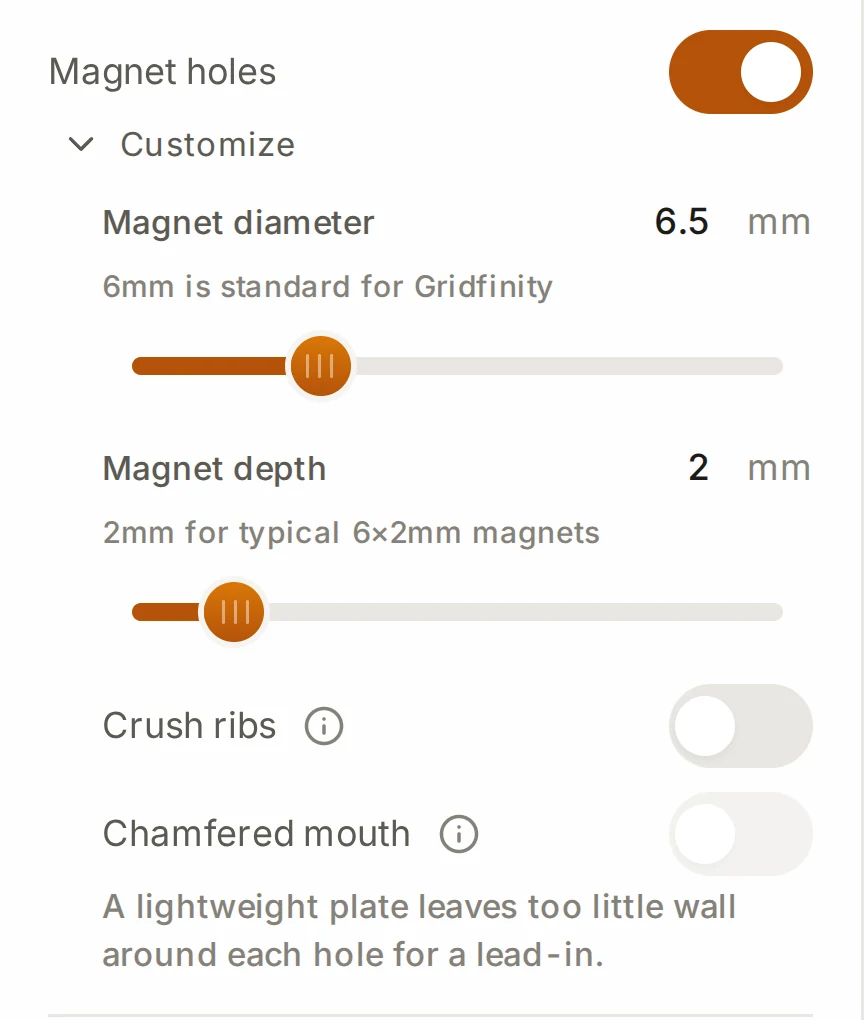
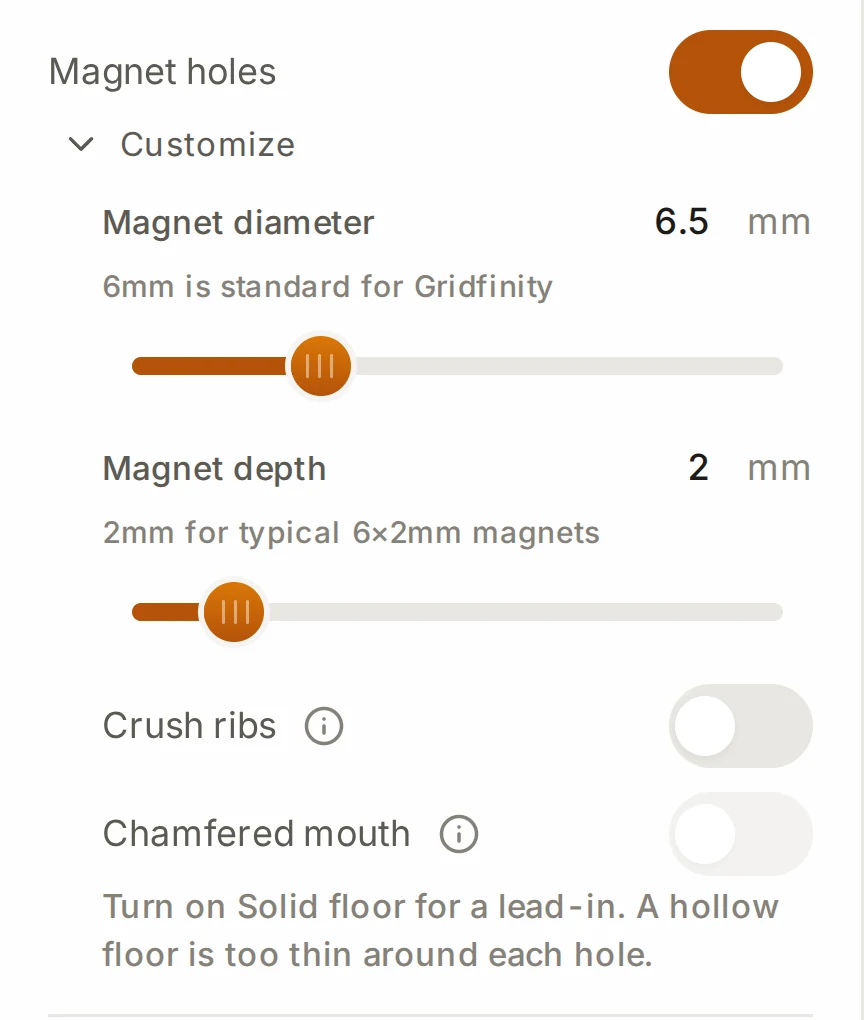
fix(baseplate): let a solid-floor plate take the magnet-hole chamfer (#5111)
* fix(baseplate): let a solid-floor plate take the magnet-hole chamfer

* docs(user-docs): say that Chamfered mouth needs Solid floor, and recapture its panel

* chore: build a preview of the docs page [preview]

* fix(baseplate): keep the chamfer note under the 90-character panel limit

* chore: build a preview of the docs page [preview]

* fix(baseplate): keep the magnet chamfer off a hollow floor with no lightweight field and off shallow holes

* chore: build a preview of the docs page [preview]

* fix(baseplate): say why a shallow magnet hole gets no chamfer

* chore: build a preview of the docs page [preview]

* fix(baseplate): pick the chamfer reason with a plain conditional, so it type-checks

* chore: build a preview of the docs page [preview]

Changed region(s): [[0.125, 0.8814, 0.9062, 0.9725]]

diff --git a/src/shared/generation/magnetHoleStyle.test.ts b/src/shared/generation/magnetHoleStyle.test.ts
@@ -6,6 +6,8 @@ import {
   MAGNET_CRUSH_RIB_DEPTH_MM,
   PLAIN_MAGNET_HOLE,
   attachmentHoleStyle,
+  baseplateTakesMagnetChamfer,
+  magnetChamferBlocker,
   isPlainMagnetHole,
   magnetBoreProfile,
   magnetBoreRadiusAt,
@@ -91,5 +93,40 @@ describe('chamfer', () => {
     // lid retention bosses (1.0) and detachable feet (1.2) all keep the plain mouth.
     expect(magnetChamferFits(1.2)).toBe(false);
     expect(magnetChamferFits(1.0)).toBe(false);
+  });
+});
+
+describe('magnetChamferBlocker', () => {
+  it('names the hollow floor first, then a shallow hole', () => {
+    expect(magnetChamferBlocker({ lightweight: true, magnetDepth: 0.5 })).toBe('hollowFloor');
+    expect(magnetChamferBlocker({ solidFloor: true, magnetDepth: 0.5 })).toBe('shallowHole');
+    expect(magnetChamferBlocker({ solidFloor: true, magnetDepth: 2 })).toBeNull();
+  });
+});
+
+describe('baseplateTakesMagnetChamfer', () => {
+  it('skips the chamfer on the thin pads of a hollowed floor', () => {
+    expect(baseplateTakesMagnetChamfer({ magnetChamfer: true, lightweight: true })).toBe(false);
+  });
+
+  it('keeps the chamfer when a solid floor replaces the hollowing', () => {
+    expect(
+      baseplateTakesMagnetChamfer({ magnetChamfer: true, lightweight: true, solidFloor: true })
+    ).toBe(true);
+    expect(baseplateTakesMagnetChamfer({ magnetChamfer: true, lightweight: false })).toBe(true);
+  });
+
+  it('treats a plate with no lightweight field as hollow, as the floor cutters do', () => {
+    expect(baseplateTakesMagnetChamfer({ magnetChamfer: true })).toBe(false);
+  });
+
+  it('skips the chamfer on a hole no deeper than the lead-in', () => {
+    const solid = { magnetChamfer: true, solidFloor: true };
+    expect(baseplateTakesMagnetChamfer({ ...solid, magnetDepth: MAGNET_CHAMFER_MM })).toBe(false);
+    expect(baseplateTakesMagnetChamfer({ ...solid, magnetDepth: 2 })).toBe(true);
+  });
+
+  it('is off unless asked for', () => {
+    expect(baseplateTakesMagnetChamfer({ lightweight: false, solidFloor: true })).toBe(false);
   });
 });

diff --git a/src/features/baseplate/components/BaseplatePanel/BaseSection.tsx b/src/features/baseplate/components/BaseplatePanel/BaseSection.tsx
@@ -72,6 +72,7 @@ import {
   CONNECTOR_FIT_OFFSET_STEP,
 } from '@/shared/constants/connectors';
 import { mm } from '@/core/types';
+import { magnetChamferBlocker } from '@/shared/generation/magnetHoleStyle';
 import {
   updateBaseplateParam as updateParam,
   updateBaseplateParams as updateParams,
@@ -117,6 +118,17 @@ export function BaseSection() {
     diameter: screwDiameter,
     count: screwsPerPiece,
   });
+  const chamferBlocker = magnetChamferBlocker({
+    lightweight: baseplateParams.lightweight !== false,
+    solidFloor: baseplateParams.solidFloor,
+    magnetDepth: baseplateParams.magnetDepth,
+  });
+  const chamferReason =
+    chamferBlocker === 'hollowFloor'
+      ? t('baseplate.magnetChamferLightweight')
+      : chamferBlocker === 'shallowHole'
+        ? t('baseplate.magnetChamferShallow')
+        : undefined;
 
   // Only a config created here is given a head width. A saved one without it
   // resolves to ø8, the width it was built with, and must keep resolving there.
@@ -352,11 +364,7 @@ export function BaseSection() {
                   label={t('baseplate.magnetChamfer')}
                   info={t('baseplate.magnetChamferDetail')}
                   checked={baseplateParams.magnetChamfer === true}
-                  disabledReason={
-                    baseplateParams.lightweight === true
-                      ? t('baseplate.magnetChamferLightweight')
-                      : undefined
-                  }
+                  disabledReason={chamferReason}
                   onChange={() =>
                     updateParam(
                       'magnetChamfer',

diff --git a/src/features/generation/worker/generators/magnetHoleStyle.kernel.test.ts b/src/features/generation/worker/generators/magnetHoleStyle.kernel.test.ts
@@ -214,7 +214,7 @@ describe('magnet hole press-fit options', () => {
   });
 
   it('baseplate: ribs and chamfer in the exact plate and its direct-mesh draft alike', () => {
-    const params = plate({ magnetCrushRibs: true, magnetChamfer: true });
+    const params = plate({ magnetCrushRibs: true, magnetChamfer: true, lightweight: false });
     const brep = holeProfile(
       generateBrepPlate(params, () => {}, true),
       MAGNET,
@@ -248,6 +248,32 @@ describe('magnet hole press-fit options', () => {
     );
     expectRibbed(p, 'lightweight plate ribs');
     expect(p.mouthAbove, 'lightweight pad keeps its plain mouth').toBeLessThan(R + 0.1);
+  }, 120_000);
+
+  it('baseplate: a solid floor keeps the chamfer on a lightweight plate', () => {
+    const p = holeProfile(
+      generateBrepPlate(
+        plate({ magnetChamfer: true, lightweight: true, solidFloor: true }),
+        () => {},
+        true
+      ),
+      MAGNET,
+      MAGNET
+    );
+    expectChamferAt(p.mouthAbove, 'solid floor chamfer mouth');
+  }, 120_000);
+
+  it('baseplate: a hole shallower than the lead-in keeps its plain mouth', () => {
+    const p = holeProfile(
+      generateBrepPlate(
+        plate({ magnetChamfer: true, solidFloor: true, magnetDepth: 0.5 }),
+        () => {},
+        true
+      ),
+      MAGNET,
+      MAGNET
+    );
+    expect(p.mouthAbove, 'shallow hole mouth').toBeLessThan(R + 0.1);
   }, 120_000);
 
   it('baseplate: a piece of a plate split for the bed keeps the ribs a 1x1 plate has', () => {

diff --git a/src/shared/generation/magnetHoleStyle.ts b/src/shared/generation/magnetHoleStyle.ts
@@ -37,6 +37,34 @@ export function magnetHoleStyleFrom(source: {
   return { crushRibs: source.magnetCrushRibs === true, chamfer: source.magnetChamfer === true };
 }
 
+interface BaseplateChamferParams {
+  readonly magnetChamfer?: boolean;
+  readonly lightweight?: boolean;
+  readonly solidFloor?: boolean;
+  readonly magnetDepth?: number;
+}
+
+/**
+ * What keeps a baseplate's magnet holes from taking the chamfer, or null. The
+ * cross cutters of a hollow floor (on unless `lightweight` is false) leave a
+ * thin pad around each bore, which the widened mouth would breach; a solid
+ * floor skips those cutters. The fixed-depth lead-in also needs a hole deeper
+ * than itself, or the magnet would sit below its seat.
+ */
+export function magnetChamferBlocker(
+  params: BaseplateChamferParams
+): 'hollowFloor' | 'shallowHole' | null {
+  if (params.lightweight !== false && params.solidFloor !== true) return 'hollowFloor';
+  if (params.magnetDepth !== undefined && params.magnetDepth <= MAGNET_CHAMFER_MM) {
+    return 'shallowHole';
+  }
+  return null;
+}
+
+export function baseplateTakesMagnetChamfer(params: BaseplateChamferParams): boolean {
+  return params.magnetChamfer === true && magnetChamferBlocker(params) === null;
+}
+
 /** The style an item envelope's attachment summary carries. */
 export function attachmentHoleStyle(attachment: {
   readonly magnetCrushRibs?: boolean;

diff --git a/src/features/generation/worker/generators/baseplateDirectMesh.ts b/src/features/generation/worker/generators/baseplateDirectMesh.ts
@@ -63,6 +63,7 @@ import {
   floorReliefReachesCorners,
   magnetPositionsForCell,
 } from '@/shared/generation/magnetPositions';
+import { baseplateTakesMagnetChamfer } from '@/shared/generation/magnetHoleStyle';
 import type { MagnetHoleStyle } from '@/shared/generation/magnetHoleStyle';
 import {
   cellHoldsFloorScrew,
@@ -110,7 +111,6 @@ export function generateBaseplateDirect(
     magnetDepth,
     magnetAnchor,
     magnetCrushRibs,
-    magnetChamfer,
     paddingLeft,
     paddingRight,
     paddingFront,
@@ -295,11 +295,11 @@ export function generateBaseplateDirect(
 
   if (magnetHoles) {
     const magnetRadius = magnetDiameter / 2;
-    // Same fit rule as the BREP plate: no chamfer on a lightweight pad, and none
-    // in a cell whose edge the widened mouth would breach.
+    // Same fit rule as the BREP plate, and no chamfer in a cell whose edge the
+    // widened mouth would breach.
     const magnetStyle: MagnetHoleStyle = {
       crushRibs: magnetCrushRibs === true,
-      chamfer: magnetChamfer === true && !params.lightweight,
+      chamfer: baseplateTakesMagnetChamfer(params),
     };
     const addCellHoles = (cell: CellInfo): void => {
       const positions = magnetPositionsForCell(

diff --git a/src/features/generation/worker/generators/baseplateGenerator.ts b/src/features/generation/worker/generators/baseplateGenerator.ts
@@ -74,6 +74,7 @@ import {
   planPartialCellMagnetPockets,
   type MagnetPocketPlan,
 } from './baseplateMagnets';
+import { baseplateTakesMagnetChamfer } from '@/shared/generation/magnetHoleStyle';
 import type { MagnetHoleStyle } from '@/shared/generation/magnetHoleStyle';
 import { buildScrewCutters } from './baseplateScrews';
 import {
@@ -284,7 +285,6 @@ export function buildBaseplateSolid(
     magnetDepth,
     magnetAnchor,
     magnetCrushRibs,
-    magnetChamfer,
     paddingLeft,
     paddingRight,
     paddingFront,
@@ -564,11 +564,9 @@ export function buildBaseplateSolid(
     outline !== undefined
       ? (cell: CellInfo): boolean => classifyCell(cell) === 'inside'
       : undefined;
-  // A lightweight plate keeps only a thin pad around each bore, too thin for
-  // the chamfer to open into; the ribs still apply there.
   const magnetStyle: MagnetHoleStyle = {
     crushRibs: magnetCrushRibs === true,
-    chamfer: magnetChamfer === true && !params.lightweight,
+    chamfer: baseplateTakesMagnetChamfer(params),
   };
   // Over-tile margin tiles get magnets too — the corner magnets that fit, or a
   // spread/centered magnet for tiles too small for any corner — so the clipped

diff --git a/src/shared/generation/meshPersistence.ts b/src/shared/generation/meshPersistence.ts
@@ -43,6 +43,8 @@ const META_STORE = 'binMeshMeta';
  * instead, so the other kernel's users keep their warm cache; for one that
  * only moves bins, bump {@link BIN_MESH_REVISION}.
  *
+ * `v30`: a baseplate with a solid floor gets the magnet-hole chamfer that it
+ * asks for, where the hollow-floor rule dropped it.
  * `v29`: a hinged lid that exports on its top face points its pin bores'
  * teardrop peak down, so the peak is the top of the hole on the print bed.
  * `v28`: a hinged lid with extra height keeps its side walls whole past the
@@ -84,7 +86,7 @@ const META_STORE = 'binMeshMeta';
  * without regenerating, so without this bump a linked design in the layout
  * planner would render its pre-fix bin until the entry was evicted.
  */
-const MESH_CACHE_VERSION = 'v29';
+const MESH_CACHE_VERSION = 'v30';
 
 /**
  * Bumped when only BIN output moves for unchanged params, so the persisted

diff --git a/src/features/baseplate/components/BaseplatePanel/BaseSection.test.tsx b/src/features/baseplate/components/BaseplatePanel/BaseSection.test.tsx
@@ -376,4 +376,17 @@ describe('BaseSection magnet press-fit options', () => {
     expect(screen.getByRole('switch', { name: 'baseplate.magnetChamfer' })).toBeDisabled();
     expect(screen.getByText('baseplate.magnetChamferLightweight')).toBeInTheDocument();
   });
+
+  it('disables the chamfer on a hole no deeper than the lead-in and says why', () => {
+    useLayoutStore.getState().setBaseplateParams({
+      ...DEFAULT_BASEPLATE_PARAMS,
+      magnetHoles: true,
+      solidFloor: true,
+      magnetDepth: mm(0.5),
+    });
+    render(<BaseSection />);
+    fireEvent.click(screen.getByRole('button', { name: 'common.customize' }));
+    expect(screen.getByRole('switch', { name: 'baseplate.magnetChamfer' })).toBeDisabled();
+    expect(screen.getByText('baseplate.magnetChamferShallow')).toBeInTheDocument();
+  });
 });

diff --git a/src/i18n/locales/en.ts b/src/i18n/locales/en.ts
@@ -4896,7 +4896,8 @@ const en: Record<string, string> = {
   'baseplate.magnetChamferDetail':
     'A 45\u00b0 lead-in at the opening of each hole guides the magnet in straight.',
   'baseplate.magnetChamferLightweight':
-    'A lightweight plate leaves too little wall around each hole for a lead-in.',
+    'Turn on Solid floor for a lead-in. A hollow floor is too thin around each hole.',
+  'baseplate.magnetChamferShallow': 'Make the hole deeper than 0.8 mm for a lead-in.',
   'baseplate.solidFloor': 'Solid floor',
   'baseplate.ecoPlate': 'Eco plate',
   'baseplate.ecoPlateDetail':

diff --git a/src/features/generation/worker/generators/magnetHoleCutter.manifold-kernel.test.ts b/src/features/generation/worker/generators/magnetHoleCutter.manifold-kernel.test.ts
@@ -191,7 +191,7 @@ describe('Manifold draft: crush ribs on every part family', () => {
     'baseplate: ribbed bore, chamfered mouth at the pocket floor',
     () => {
       const part = generateBaseplate(
-        plate({ magnetCrushRibs: true, magnetChamfer: true }),
+        plate({ magnetCrushRibs: true, magnetChamfer: true, lightweight: false }),
         () => {},
         false
       );

diff --git a/apps/docs/baseplates/magnets-and-screws.md b/apps/docs/baseplates/magnets-and-screws.md
@@ -39,7 +39,7 @@ All three are off by default. <Ui k="baseplate.stackPrint.enable" /> removes all
 
 Not sure? Keep the defaults. Gridfinity magnets are 6 by 2 mm discs.
 
-<Screenshot id="baseplates-magnets-magnet-settings" alt="Magnet holes is on and Customize is open. It shows Magnet diameter at 6.5 mm, Magnet depth at 2 mm, Crush ribs, and Chamfered mouth. Chamfered mouth is off, with a note that a lightweight plate leaves too little wall around each hole." spec="Baseplate generator, 4 by 3 plate with the default lightweight floor, Magnet holes on. Click Customize under Magnet holes. Crop to the panel from Magnet holes down to the note under Chamfered mouth." />
+<Screenshot id="baseplates-magnets-magnet-settings" alt="Magnet holes is on and Customize is open. It shows Magnet diameter at 6.5 mm, Magnet depth at 2 mm, Crush ribs, and Chamfered mouth. Chamfered mouth is off, with a note to turn on Solid floor for a lead-in." spec="Baseplate generator, 4 by 3 plate with the default lightweight floor, Magnet holes on. Click Customize under Magnet holes. Crop to the panel from Magnet holes down to the note under Chamfered mouth." />
 
 Your bins need magnets in the same places. In the bin designer, open <Ui k="binDesigner.group.base" /> and turn on magnet holes. See [The base](../designer/base#add-magnet-holes). For a big bin, turn on <Ui k="binDesigner.base.cornerHolesOnly" /> under <Ui k="binDesigner.base.section.mounting" />. The bin then gets holes only at its outer corners, so it needs fewer magnets and lifts off the plate more easily.
 
@@ -54,7 +54,7 @@ Want the magnets to stay in without glue? Two options under <Ui k="common.custom
 
 Each ridge stands 0.3 mm into the hole, so a hole that prints a little too large still grips the magnet. The bin designer has the same <Ui k="binDesigner.base.magnetCrushRibs" /> option for the magnet holes of a bin. See [Hold magnets without glue](../designer/base#hold-magnets-without-glue).
 
-If you can't turn on <Ui k="baseplate.magnetChamfer" />, the plate has too little wall around each hole for a lead-in. <Ui k="baseplate.magnetCrushRibs" /> still works on that plate.
+<Ui k="baseplate.magnetChamfer" /> needs <Ui k="baseplate.solidFloor" />. A plate without it has a hollow floor, which leaves too little wall around each hole for a lead-in. The lead-in is 0.8 mm deep, so a hole must be deeper than that to get it. <Ui k="baseplate.magnetCrushRibs" /> works on either floor.
 
 ### Magnet position on large grids
 
